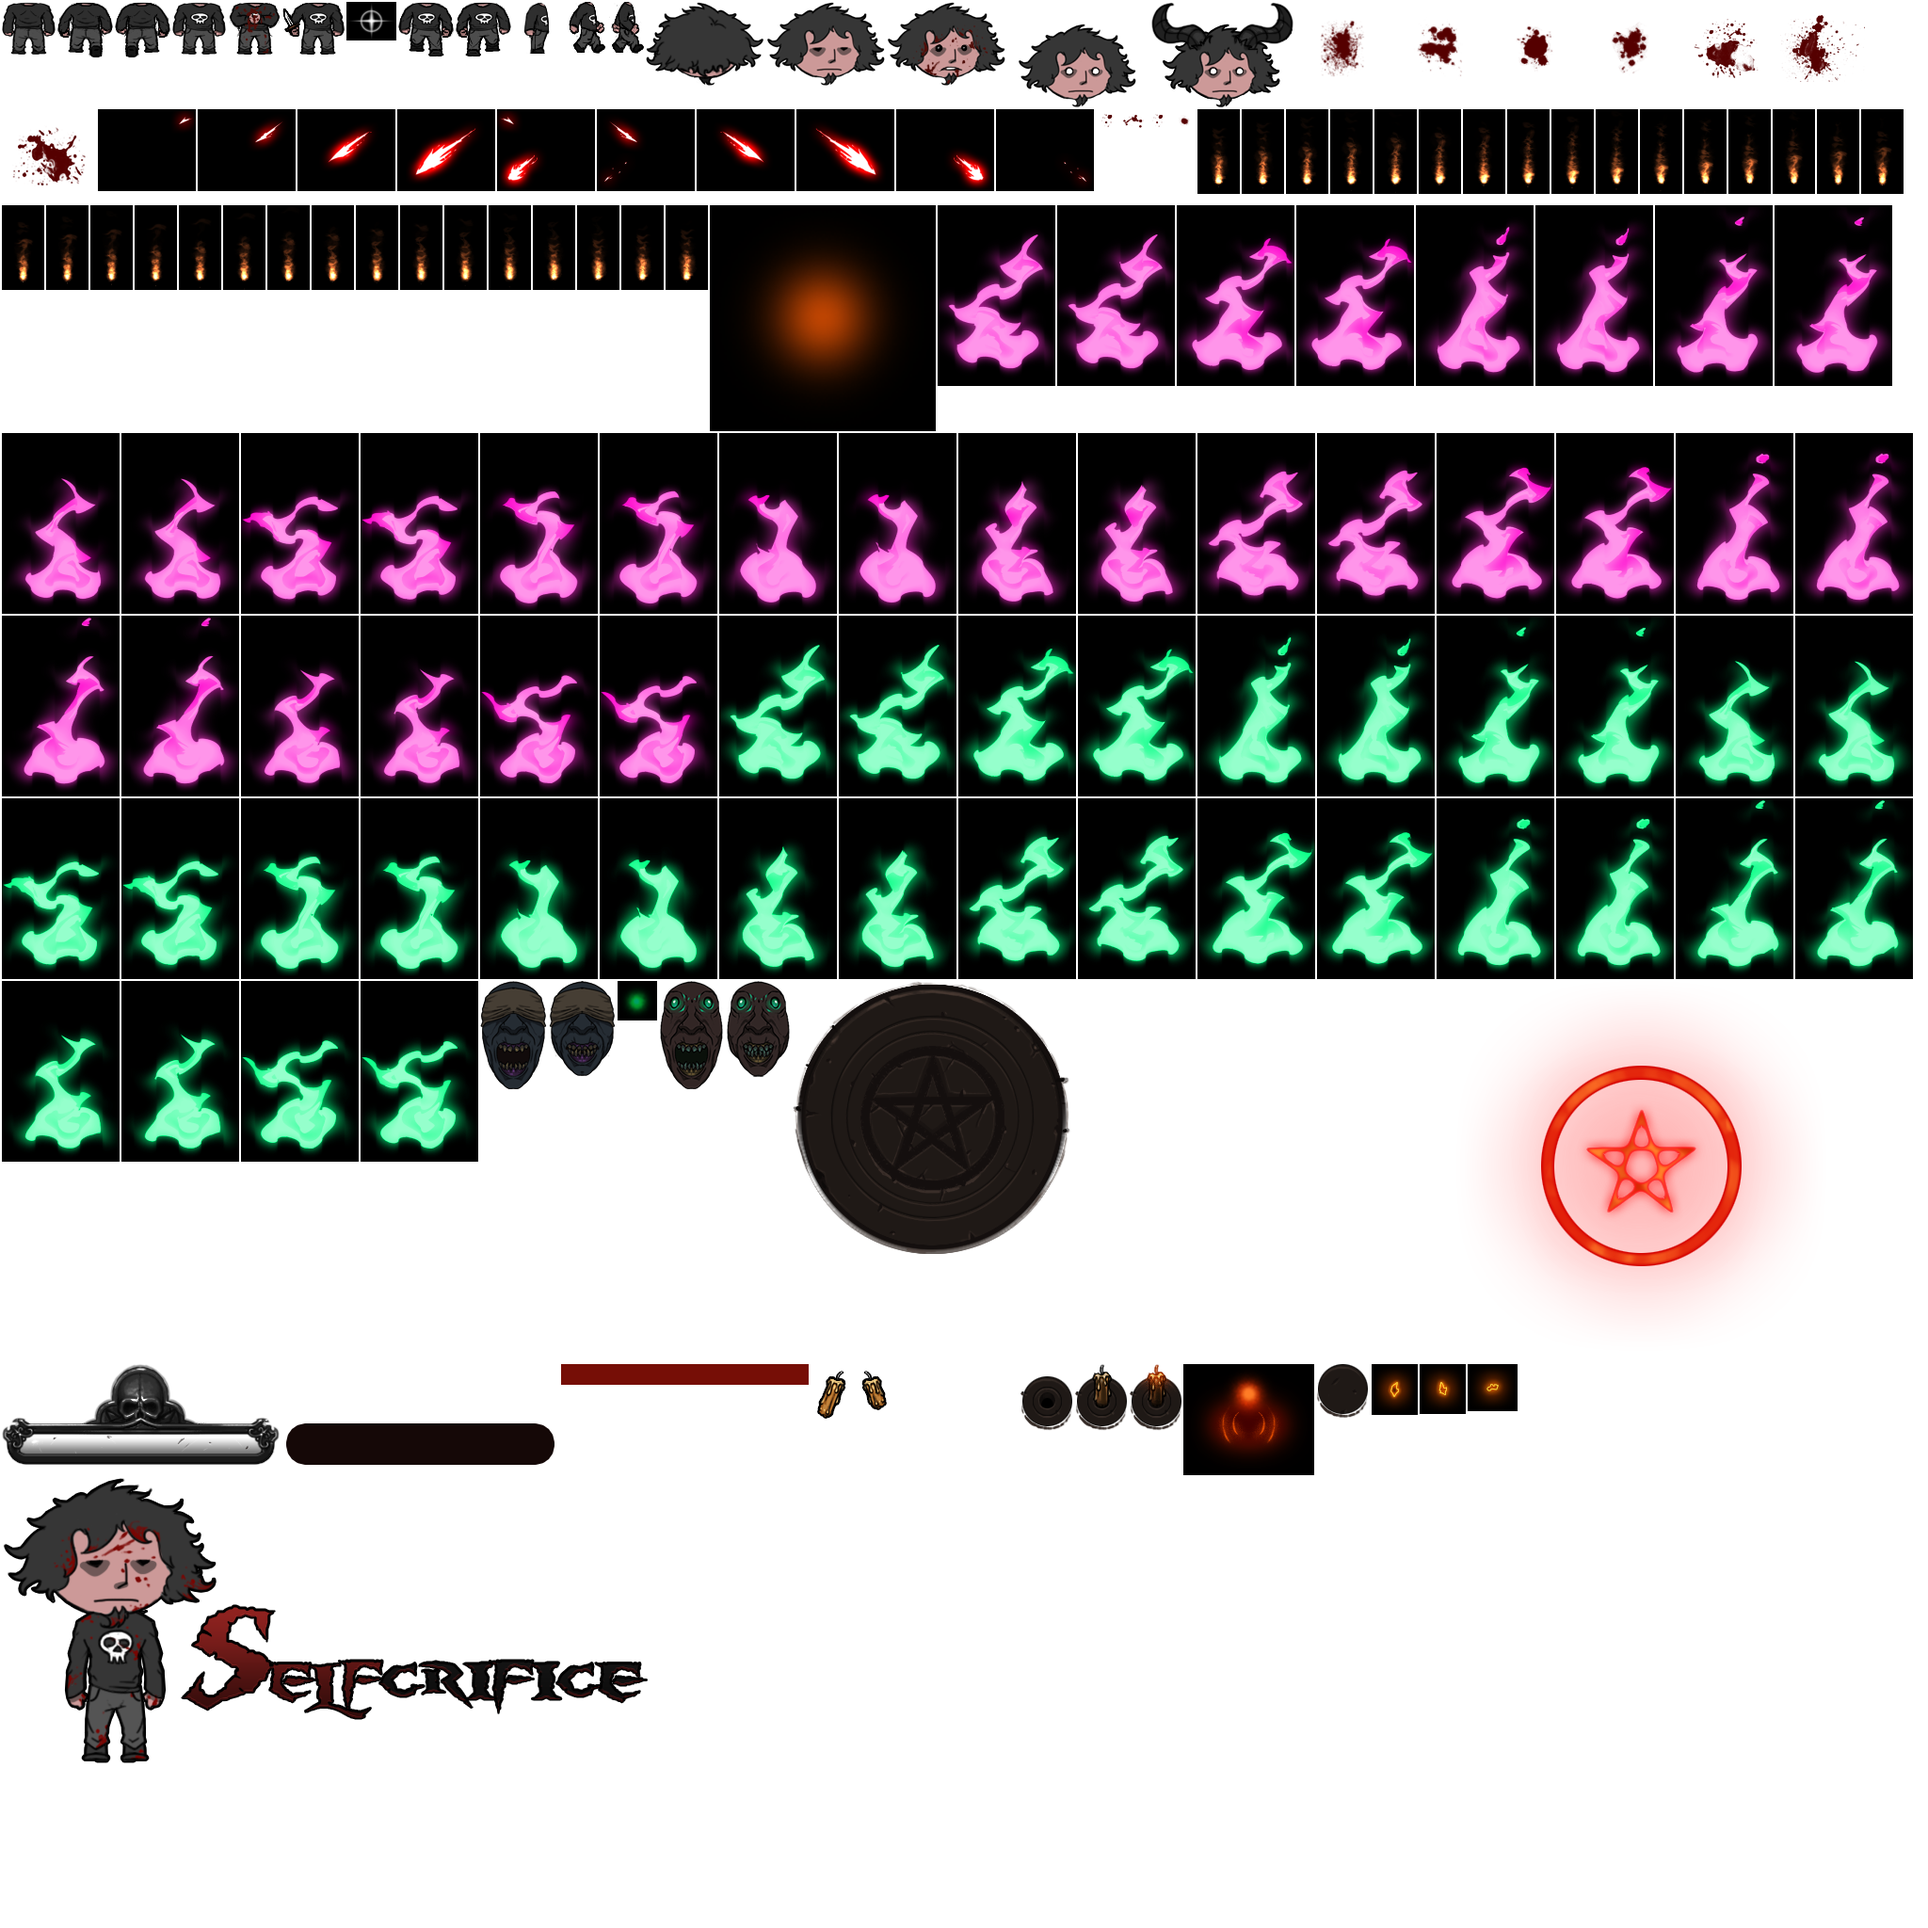
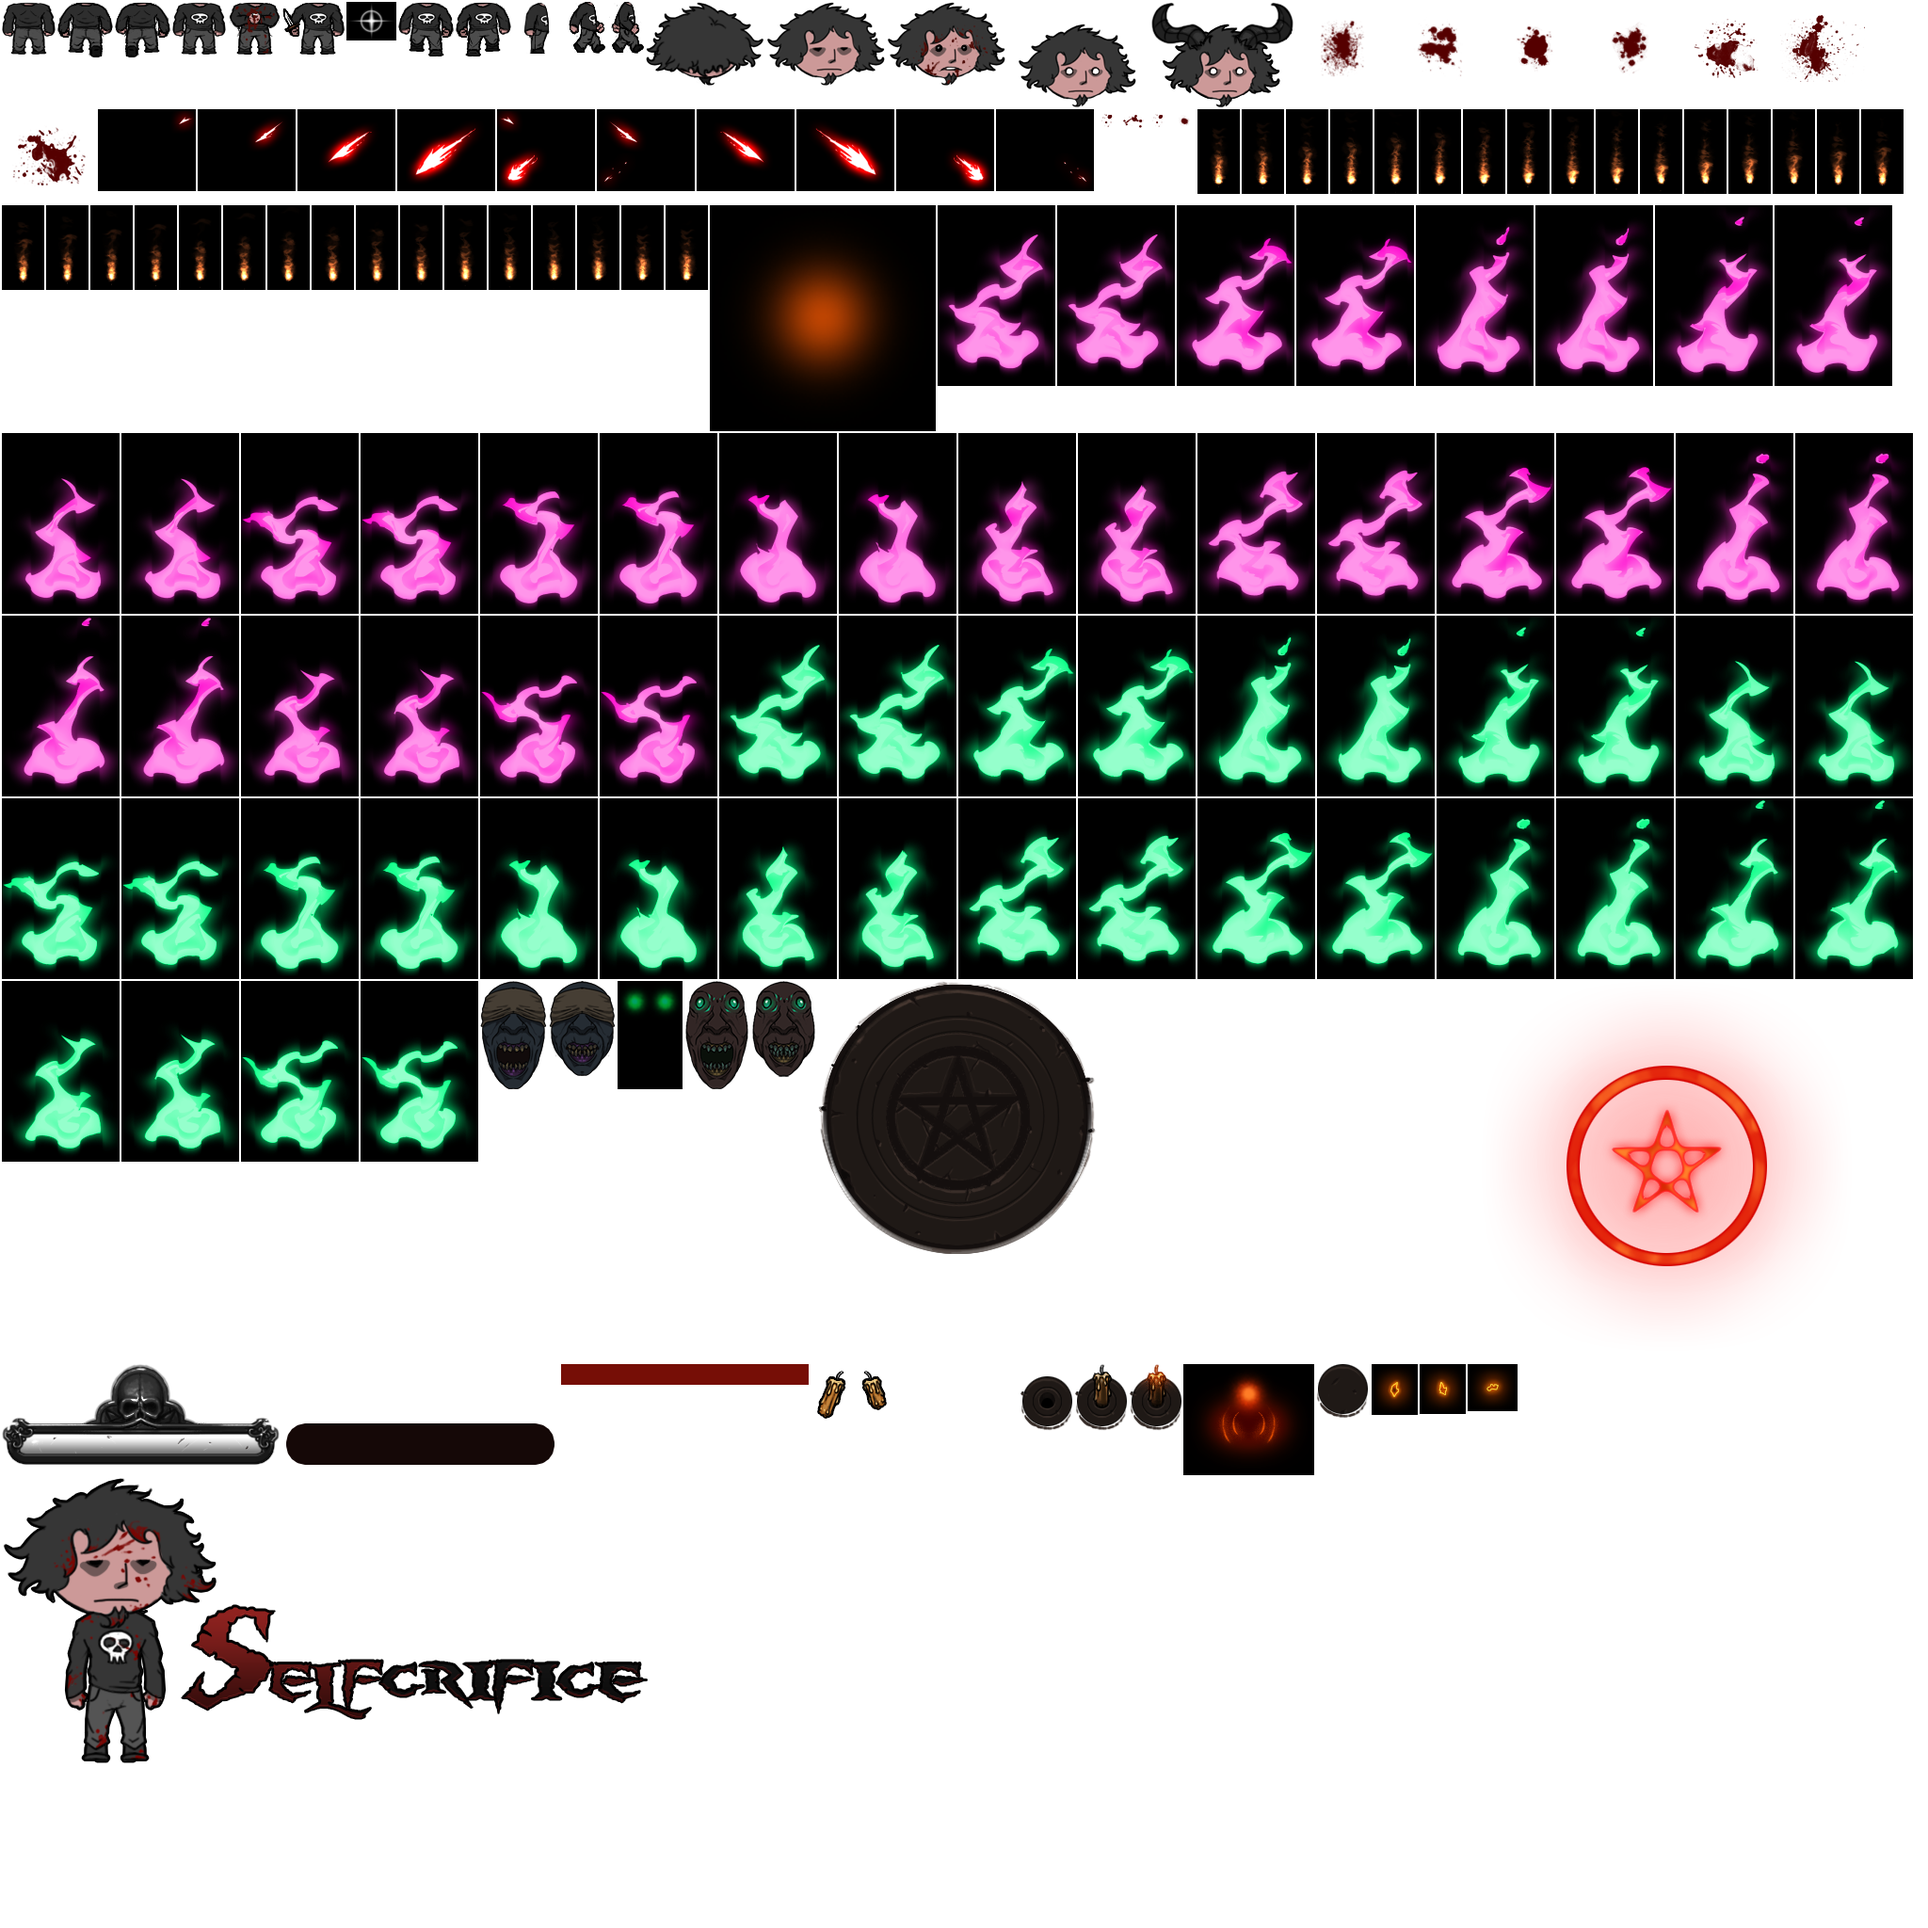
Enemy eyes glow

Changed region(s): [[0.3125, 0.5, 0.5938, 0.6562], [0.7812, 0.5312, 0.9375, 0.6562]]

diff --git a/core/src/com/retrom/ggj2016/assets/Assets.java b/core/src/com/retrom/ggj2016/assets/Assets.java
@@ -50,6 +50,7 @@ public class Assets {
 
 	public static Array<Sprite> enemyFollower;
 	public static Array<Sprite> enemyFollowerFire;
+	public static Sprite enemyFollowerEyes;
 	
 	public static Sprite altar;
 	public static Sprite altar_glow;
@@ -111,6 +112,7 @@ public class Assets {
 		
 		enemyFollower = basicSheet.createSprites("enemies_stalker_frame");
 		enemyFollowerFire = basicSheet.createSprites("enemies_fire_green");
+		enemyFollowerEyes = basicSheet.createSprite("enemies_stalker_eyesglow");
 		
 		altar = basicSheet.createSprite("exitaltar_base");
 		altar_glow = basicSheet.createSprite("exitaltar_base_glow");

diff --git a/core/src/com/retrom/ggj2016/objects/CandlePoint.java b/core/src/com/retrom/ggj2016/objects/CandlePoint.java
@@ -81,7 +81,6 @@ public class CandlePoint extends GameObject {
 
 	public void update(float deltaTime) {
 //		if (state == State.ON) {
-		System.out.println("stateTime="+stateTime);
 			stateTime += deltaTime;
 //		}
 	}
@@ -94,7 +93,6 @@ public class CandlePoint extends GameObject {
 	public void turnOnCandle() {
 		if (state != State.BLANK && state != State.ON) {
 			state = State.ON;
-			System.out.println("reset");
 			stateTime = 0;
 		}
 	}

diff --git a/core/src/com/retrom/ggj2016/objects/FollowerEnemy.java b/core/src/com/retrom/ggj2016/objects/FollowerEnemy.java
@@ -58,6 +58,14 @@ public class FollowerEnemy extends Enemy {
 		s.setAlpha(alpha);
 		utils.drawCenter(batch, s, position.x, position.y);
 		}
+		
+		BatchUtils.setBlendFuncAdd(batch);
+		{
+			Sprite s = Assets.enemyFollowerEyes;
+			s.setColor(alpha,alpha,alpha,1);
+			utils.drawCenter(batch, s, position.x, position.y);
+		}
+		BatchUtils.setBlendFuncNormal(batch);
 	}
 
 }

diff --git a/core/src/com/retrom/ggj2016/game/Altar.java b/core/src/com/retrom/ggj2016/game/Altar.java
@@ -18,7 +18,6 @@ public class Altar extends GameObject {
 	public Altar(int level) {
 		super(0, 0, ALTAR_COLLIDER, ALTAR_COLLIDER);
 		this.level = level;
-		System.out.println("level="+level);
 	}
 	
 	public void update(float deltaTime) {
